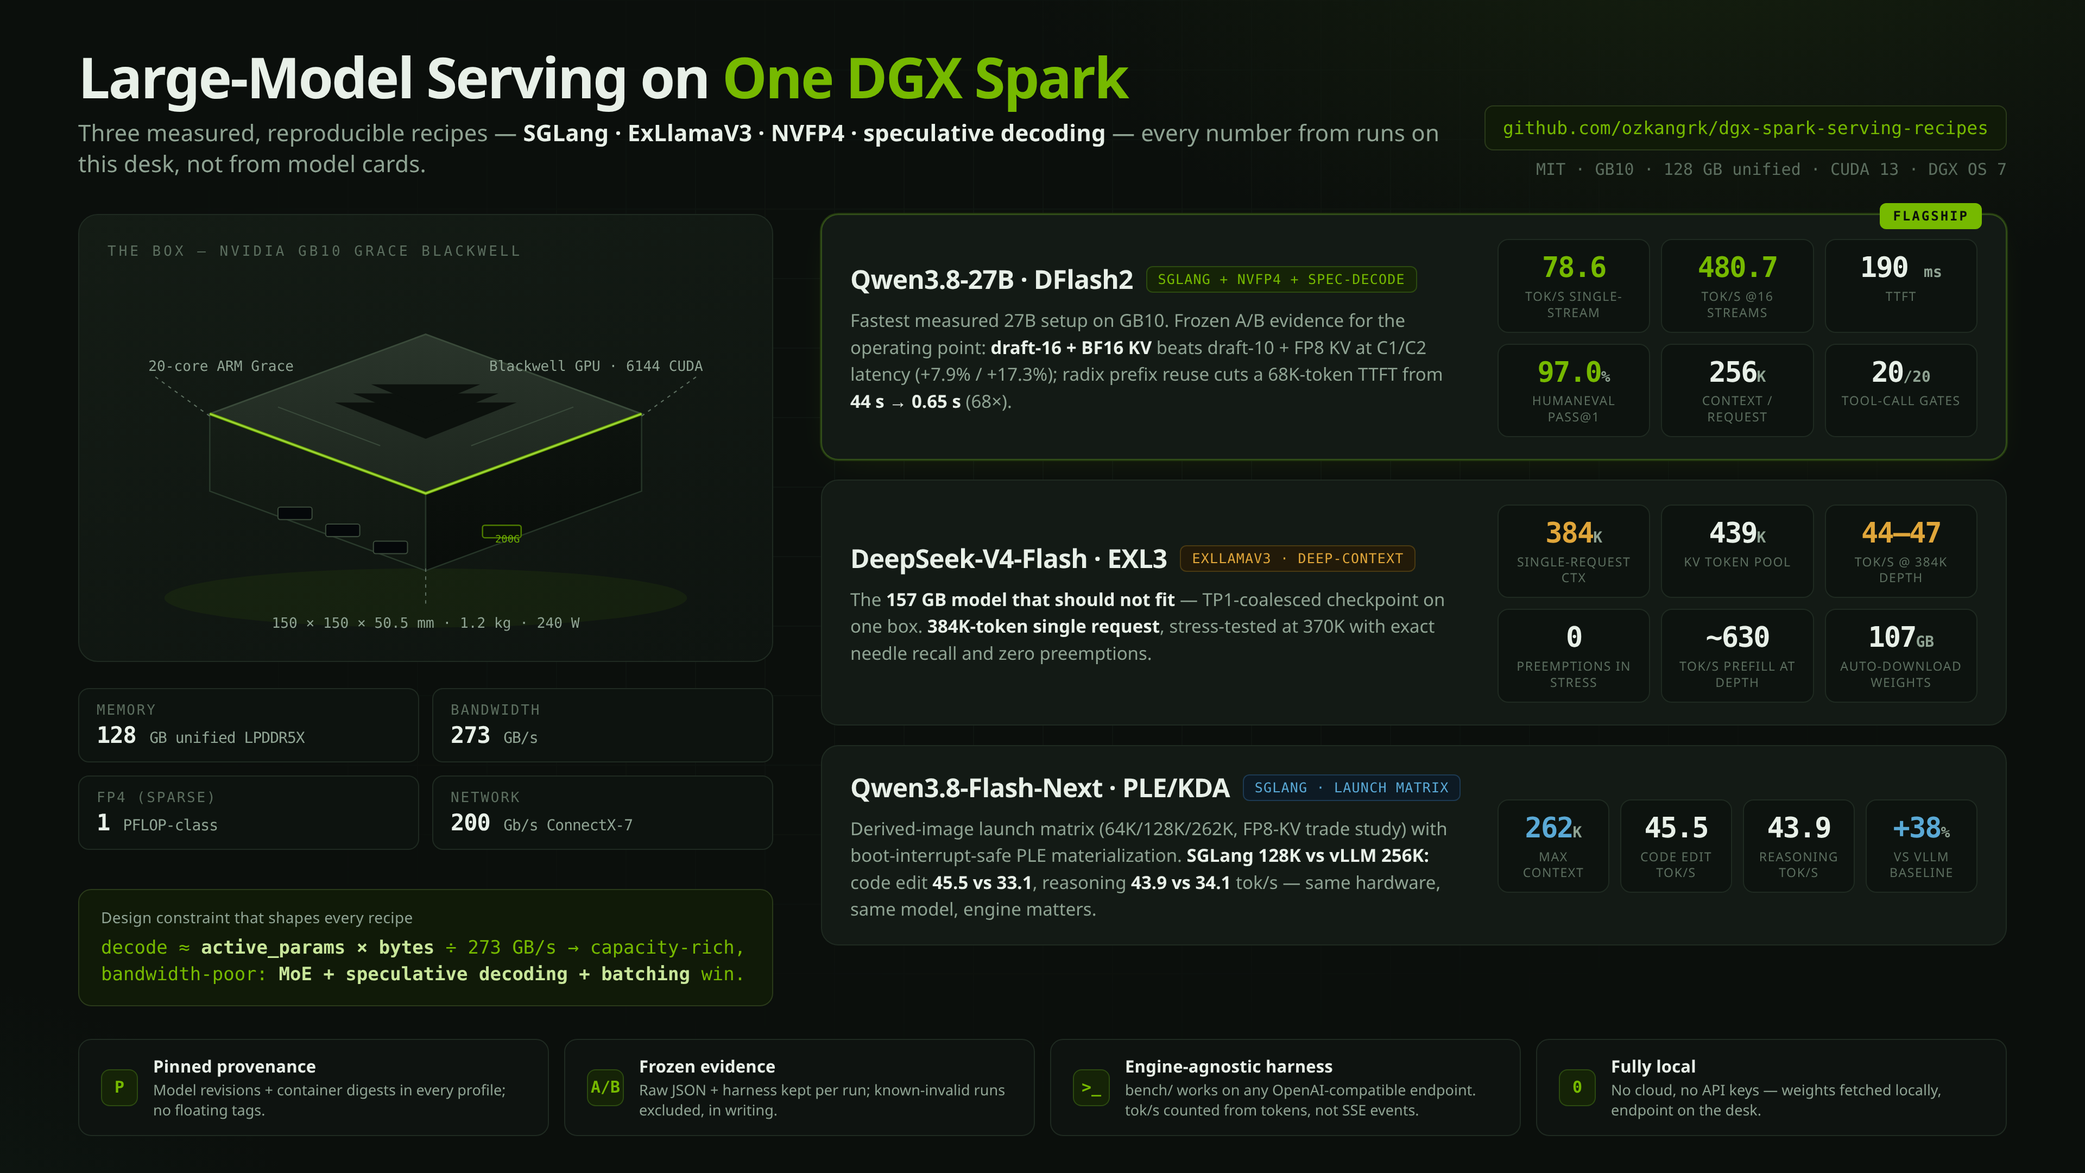
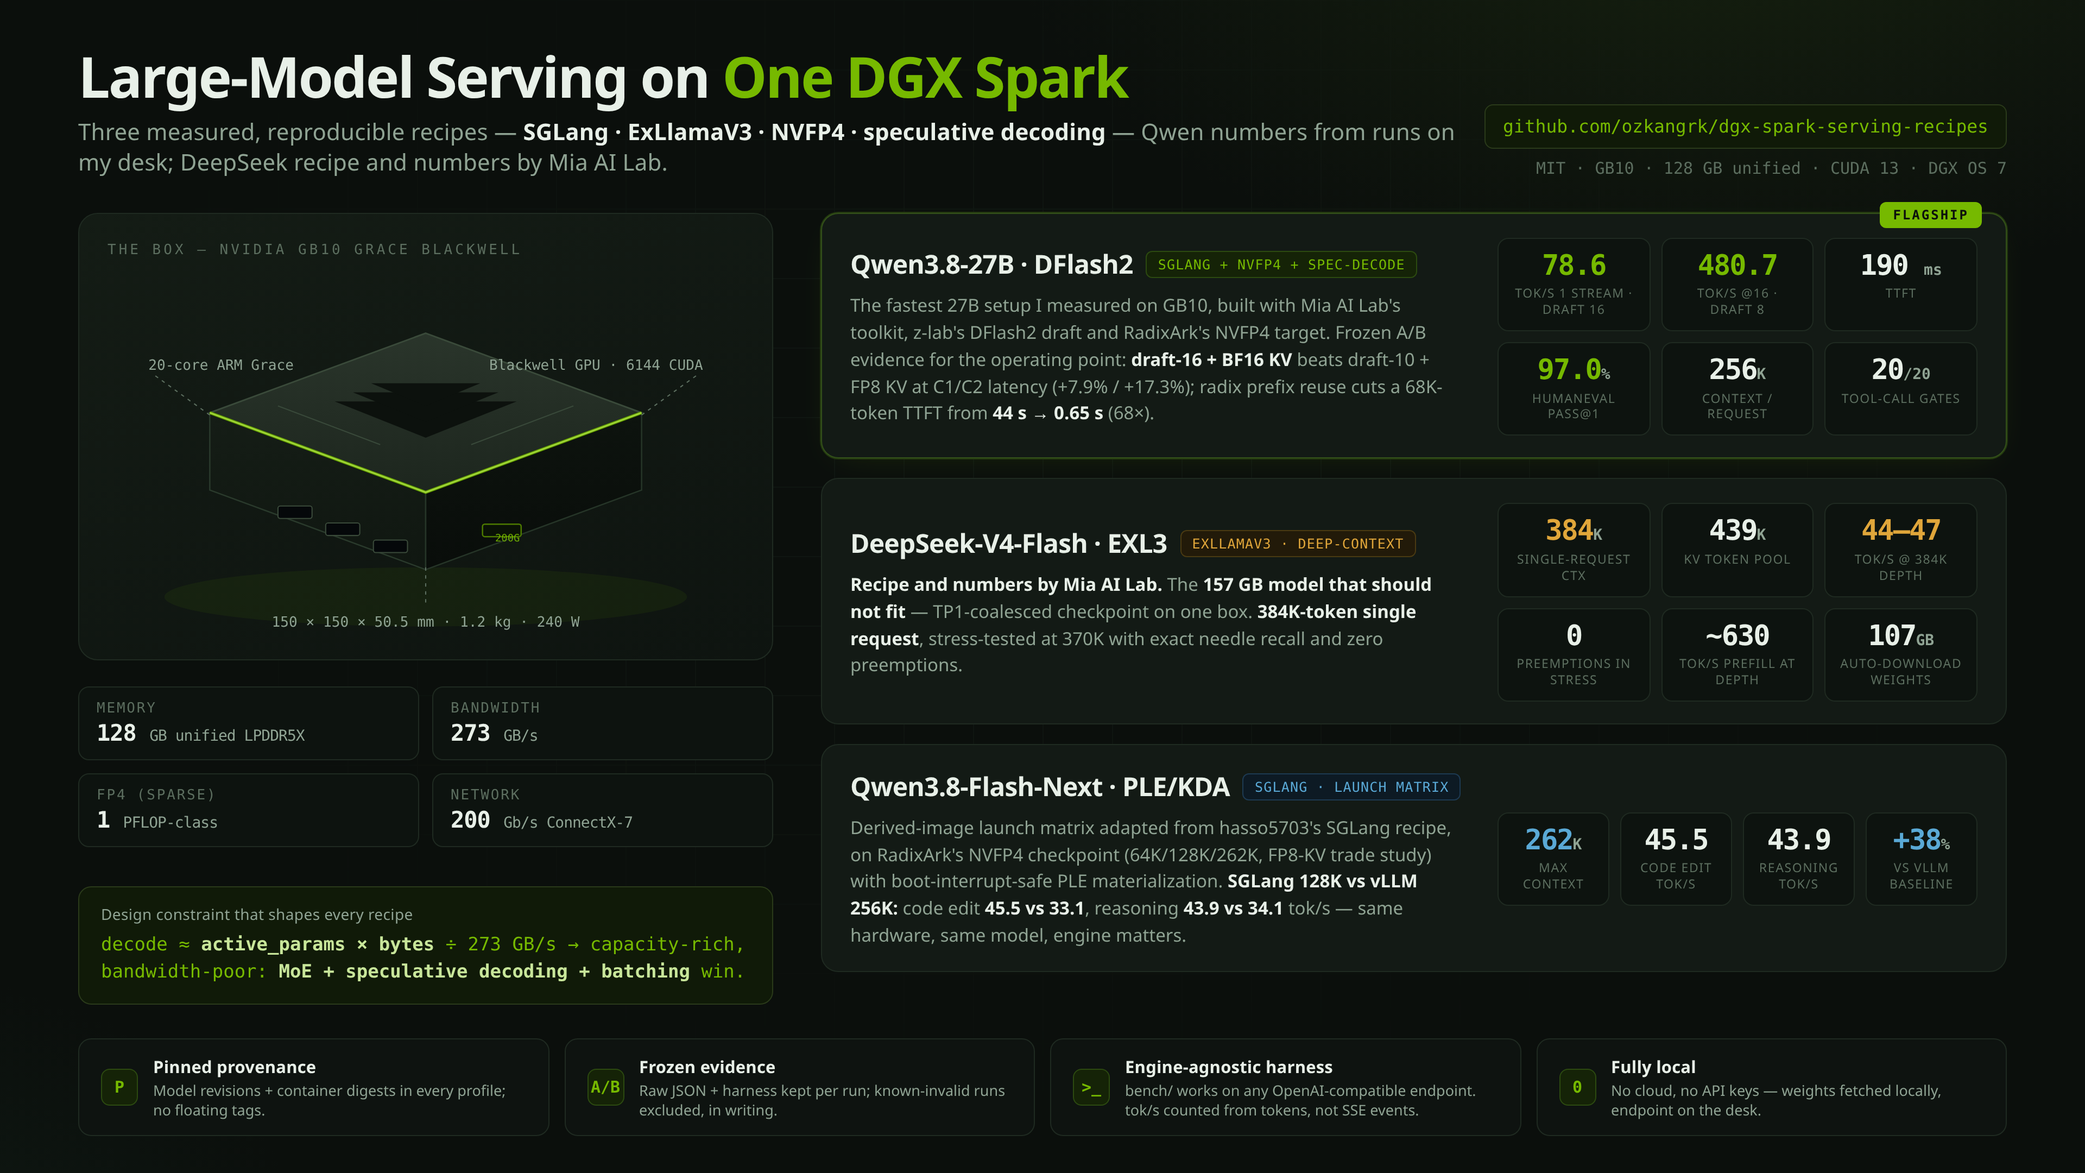
Fix attribution: credit Mia AI Lab, hasso5703, z-lab, RadixArk; add Credits
The README called every profile first-party and the one-pager said every
number came from runs on this desk. The DeepSeek-V4-Flash EXL3 profile and
its numbers are Mia AI Lab's; the Qwen3.8-27B measurements are mine but were
made with Mia AI Lab's toolkit, z-lab's DFlash2 draft and RadixArk's NVFP4
target; the Flash-Next launch scripts are adapted from hasso5703's recipe.
Adds a Credits section, per-profile provenance, labels the nvfp4 guide as
third-party desk research, says which draft width each headline number uses,
replaces unverifiable superlatives and fixes links to files not in this repo.
One-pager HTML and PNG regenerated.

diff --git a/assets/one-pager.html b/assets/one-pager.html
@@ -91,7 +91,7 @@
 <header>
   <div>
     <div class="h-title">Large-Model Serving on <span class="grn">One DGX Spark</span></div>
-    <div class="h-sub">Three measured, reproducible recipes — <b>SGLang · ExLlamaV3 · NVFP4 · speculative decoding</b> — every number from runs on this desk, not from model cards.</div>
+    <div class="h-sub">Three measured, reproducible recipes — <b>SGLang · ExLlamaV3 · NVFP4 · speculative decoding</b> — Qwen numbers from runs on my desk; DeepSeek recipe and numbers by Mia AI Lab.</div>
   </div>
   <div class="h-repo">
     <div class="url">github.com/ozkangrk/dgx-spark-serving-recipes</div>
@@ -178,11 +178,11 @@
           <div class="p-name">Qwen3.8-27B · DFlash2</div>
           <div class="p-engine">SGLANG + NVFP4 + SPEC-DECODE</div>
         </div>
-        <div class="p-why">Fastest measured 27B setup on GB10. Frozen A/B evidence for the operating point: <b>draft-16 + BF16 KV</b> beats draft-10 + FP8 KV at C1/C2 latency (+7.9% / +17.3%); radix prefix reuse cuts a 68K-token TTFT from <b>44 s → 0.65 s</b> (68×).</div>
+        <div class="p-why">The fastest 27B setup I measured on GB10, built with Mia AI Lab's toolkit, z-lab's DFlash2 draft and RadixArk's NVFP4 target. Frozen A/B evidence for the operating point: <b>draft-16 + BF16 KV</b> beats draft-10 + FP8 KV at C1/C2 latency (+7.9% / +17.3%); radix prefix reuse cuts a 68K-token TTFT from <b>44 s → 0.65 s</b> (68×).</div>
       </div>
       <div class="metrics">
-        <div class="m"><div class="n grn">78.6</div><div class="l">tok/s single-stream</div></div>
-        <div class="m"><div class="n grn">480.7</div><div class="l">tok/s @16 streams</div></div>
+        <div class="m"><div class="n grn">78.6</div><div class="l">tok/s 1 stream · draft 16</div></div>
+        <div class="m"><div class="n grn">480.7</div><div class="l">tok/s @16 · draft 8</div></div>
         <div class="m"><div class="n">190 <span class="u">ms</span></div><div class="l">TTFT</div></div>
         <div class="m"><div class="n grn">97.0<span class="u">%</span></div><div class="l">HumanEval pass@1</div></div>
         <div class="m"><div class="n">256<span class="u">K</span></div><div class="l">context / request</div></div>
@@ -196,7 +196,7 @@
           <div class="p-name">DeepSeek-V4-Flash · EXL3</div>
           <div class="p-engine amber">EXLLAMAV3 · DEEP-CONTEXT</div>
         </div>
-        <div class="p-why">The <b>157 GB model that should not fit</b> — TP1-coalesced checkpoint on one box. <b>384K-token single request</b>, stress-tested at 370K with exact needle recall and zero preemptions.</div>
+        <div class="p-why"><b>Recipe and numbers by Mia AI Lab.</b> The <b>157 GB model that should not fit</b> — TP1-coalesced checkpoint on one box. <b>384K-token single request</b>, stress-tested at 370K with exact needle recall and zero preemptions.</div>
       </div>
       <div class="metrics">
         <div class="m"><div class="n am">384<span class="u">K</span></div><div class="l">single-request ctx</div></div>
@@ -214,7 +214,7 @@
           <div class="p-name">Qwen3.8-Flash-Next · PLE/KDA</div>
           <div class="p-engine blue">SGLANG · LAUNCH MATRIX</div>
         </div>
-        <div class="p-why">Derived-image launch matrix (64K/128K/262K, FP8-KV trade study) with boot-interrupt-safe PLE materialization. <b>SGLang 128K vs vLLM 256K:</b> code edit <b>45.5 vs 33.1</b>, reasoning <b>43.9 vs 34.1</b> tok/s — same hardware, same model, engine matters.</div>
+        <div class="p-why">Derived-image launch matrix adapted from hasso5703's SGLang recipe, on RadixArk's NVFP4 checkpoint (64K/128K/262K, FP8-KV trade study) with boot-interrupt-safe PLE materialization. <b>SGLang 128K vs vLLM 256K:</b> code edit <b>45.5 vs 33.1</b>, reasoning <b>43.9 vs 34.1</b> tok/s — same hardware, same model, engine matters.</div>
       </div>
       <div class="metrics c4">
         <div class="m"><div class="n bl">262<span class="u">K</span></div><div class="l">max context</div></div>

diff --git a/README.md b/README.md
@@ -6,9 +6,10 @@ and notes on where two-node clusters become necessary.
 
 Every profile under [`profiles/`](profiles/) is a **working deployment**:
 launch scripts, health/wait gates, quality gates, and the benchmark data
-that justifies the chosen operating point. Numbers are first-party
-measurements on the hardware listed in each profile; nothing is quoted
-from tweets or model cards without an independent local reproduction.
+that justifies the chosen operating point. Not every profile is my own
+work and not every number is my measurement: see [Provenance](#provenance)
+and [Credits](#credits) for who built and measured what. Figures from
+tweets, forums or model cards are labelled as third-party where they appear.
 
 ## Hardware reality (why these recipes look the way they do)
 
@@ -24,17 +25,19 @@ serving are compute-bound and scale well. Consequences:
 - Batch amortizes the bandwidth tax: the same engine that gives 20 tok/s
   at batch 1 can serve hundreds of tok/s aggregate at batch 16+.
 
-See [`docs/nvfp4-serving-guide.md`](docs/nvfp4-serving-guide.md) for the
-full per-model decision table (which model fits one Spark, expected
-decode rates, quantization notes).
+See [`docs/nvfp4-serving-guide.md`](docs/nvfp4-serving-guide.md) for a
+per-model decision table (which model fits one Spark, expected decode
+rates, quantization notes). It is desk research in Turkish, compiled from
+model cards and community reports: its figures are third-party, not
+measurements from this repo.
 
 ## Profiles
 
 | Profile | Engine | Quant | Context | Why it exists |
 |---|---|---|---|---|
-| [`qwen3.8-27b-dflash2`](profiles/qwen3.8-27b-dflash2/) | SGLang + DFlash2 spec-decode | NVFP4 target + BF16 draft | 256K | Flagship: fastest measured Qwen3.8-27B setup on GB10 (78.6 tok/s single-stream, 480.7 tok/s @16 streams, HumanEval 97.0%). Includes frozen A/B evidence for draft-width/KV-dtype operating points. |
-| [`deepseek-v4-flash-exl3`](profiles/deepseek-v4-flash-exl3/) | ExLlamaV3 (EXL3) | NVFP4 KV records | 384K single request | Deep-context: 439K-token pool on ONE Spark, auto-download launcher, TP1 coalesced checkpoint. The 157 GB model that does not fit one box, made to fit. |
-| [`qwen3.8-flash-next`](profiles/qwen3.8-flash-next/) | SGLang (derived image) | NVFP4 | 64K/128K/256K variants | Launch matrix for PLE/KDA attention variants incl. FP8-KV trade study; boot-interrupt-safe PLE materialization. |
+| [`qwen3.8-27b-dflash2`](profiles/qwen3.8-27b-dflash2/) | SGLang + DFlash2 spec-decode | NVFP4 target + BF16 draft | 256K | Flagship: the fastest Qwen3.8-27B setup I measured on GB10 (78.6 tok/s single-stream at draft 16, 480.7 tok/s @16 streams at draft 8, HumanEval 97.0%). Includes frozen A/B evidence for draft-width/KV-dtype operating points. My measurements, made with Mia AI Lab's toolkit, z-lab's DFlash2 draft and RadixArk's NVFP4 target. |
+| [`deepseek-v4-flash-exl3`](profiles/deepseek-v4-flash-exl3/) | ExLlamaV3 (EXL3) | NVFP4 KV records | 384K single request | **By Mia AI Lab** (recipe and numbers are theirs; see its README). Deep-context: 439K-token pool on ONE Spark, auto-download launcher, TP1 coalesced checkpoint. The 157 GB model that does not fit one box, made to fit. |
+| [`qwen3.8-flash-next`](profiles/qwen3.8-flash-next/) | SGLang (derived image) | NVFP4 | 64K/128K/256K variants | Launch matrix for PLE/KDA attention variants incl. FP8-KV trade study; boot-interrupt-safe PLE materialization. Adapted from hasso5703's SGLang recipe; serves RadixArk's NVFP4 checkpoint. |
 
 ## Shared benchmark harness
 
@@ -57,9 +60,24 @@ unique per stream or the radix cache measures itself; assert
 
 ## Provenance
 
-- All figures in `profiles/*/bench-results` and `profiles/*/evidence`
-  are first-party runs on DGX Spark hardware by the repo author, with
-  pinned model revisions and container digests recorded in each profile.
+- **Qwen3.8-27B** (`profiles/qwen3.8-27b-dflash2/`, `docs/RESULTS.md`,
+  `docs/PROFILE-qwen3.8-27b-dflash2.md`): my own runs on one DGX Spark,
+  with pinned model revisions and container digests recorded in the
+  profile and in [`docs/BUILD-MANIFEST.md`](docs/BUILD-MANIFEST.md). The
+  numbers in `docs/RESULTS.md` were produced with Mia AI Lab's toolkit,
+  z-lab's DFlash2 draft and RadixArk's NVFP4 target; some files in the
+  profile's `bench-results/` come from an earlier deployment built on
+  r0b0tlab's bundle (see [Credits](#credits)).
+- **DeepSeek-V4-Flash** (`profiles/deepseek-v4-flash-exl3/`): Mia AI
+  Lab's recipe, included with its own README. Its measured results are
+  Mia AI Lab's, not mine.
+- **Qwen3.8-Flash-Next** (`profiles/qwen3.8-flash-next/`): launch scripts
+  adapted from hasso5703's SGLang recipe (`hasso5703/dgx-spark-qwen38` at
+  `e8d6c6cc`, the `source-commit` label in `launch.sh`), serving RadixArk's
+  NVFP4 checkpoint (the `model-revision` label). The Flash-Next
+  figures on the one-pager are my measurements.
+- [`docs/REPRODUCTION.md`](docs/REPRODUCTION.md) reports a reproduction of
+  the Qwen3.8-27B numbers on a second DGX Spark.
 - Frozen A/B evidence (`profiles/qwen3.8-27b-dflash2/evidence/`) keeps
   raw JSON plus the harness scripts that produced it; known-invalid runs
   are excluded and the exclusion is documented in its `REPORT.md`.
@@ -75,6 +93,30 @@ unique per stream or the radix cache measures itself; assert
   repo; launchers fetch or reference them locally)
 - No cloud account, no API keys: everything runs locally.
 
+## Credits
+
+This repo builds on other people's work:
+
+- **Mia AI Lab** ([@MiaAI_lab](https://x.com/MiaAI_lab)): the whole
+  DeepSeek-V4-Flash EXL3 profile (recipe, launcher, image patches and its
+  measured results; its README lists its own credits), and the
+  [Qwen3.8-27B-SGLang-DGX-Spark](https://github.com/MiaAI-Lab/Qwen3.8-27B-SGLang-DGX-Spark)
+  toolkit at commit `c90d8c34` (`start-dflash.sh`, SGLang overlay, NVFP4
+  head patch), with which my Qwen3.8-27B numbers were produced.
+- **z-lab**: the DFlash2 draft model `z-lab/Qwen3.8-27B-DFlash2`.
+- **RadixArk**: the NVFP4 checkpoints `RadixArk/Qwen3.8-27B-NVFP4` (the
+  Qwen3.8-27B target) and the Qwen3.8-Flash-Next checkpoint served by
+  `profiles/qwen3.8-flash-next/`.
+- **LMSYS / SGLang**: the serving engine and the official DFlash2 images.
+- **hasso5703**: the SGLang Qwen3.8 recipe the Flash-Next launch matrix is
+  adapted from, and a reference figure in `docs/RESULTS.md`.
+- **r0b0tlab**: the SGLang bundle and `r0b0tlab/Qwen3.8-27B-NVFP4-MTP-sm121`
+  target behind the earlier deployment documented in
+  `profiles/qwen3.8-27b-dflash2/docs/`.
+- **SparkStation** ([kshetrajna12/sparkstation](https://github.com/kshetrajna12/sparkstation)):
+  the orchestration layer in the Qwen3.8-27B write-up.
+
 ## License
 
-MIT — see [LICENSE](LICENSE).
+MIT — see [LICENSE](LICENSE). Third-party material in this repo (see
+[Credits](#credits)) stays under its authors' terms.

diff --git a/docs/PROFILE-qwen3.8-27b-dflash2.md b/docs/PROFILE-qwen3.8-27b-dflash2.md
@@ -15,10 +15,19 @@ see step 6.
 **NVFP4 beats FP8, and SGLang beats vLLM, on this hardware.** The widely-shared
 "FP8 on vLLM at ~32 tok/s" recipe is roughly half this speed.
 
-Reproduce with [`bench/`](bench/). Full data in
-[`results/RESULTS.md`](results/RESULTS.md). The exact
+The numbers are my measurements. They were produced with Mia AI Lab's
+[Qwen3.8-27B-SGLang-DGX-Spark](https://github.com/MiaAI-Lab/Qwen3.8-27B-SGLang-DGX-Spark)
+toolkit (`start-dflash.sh`, SGLang overlay, NVFP4 head patch), z-lab's DFlash2
+draft and RadixArk's NVFP4 target; pins are in the table below.
+
+Reproduce with [`bench/`](../bench/). Full data in
+[`RESULTS.md`](RESULTS.md). The exact
 build inputs behind those numbers are in
-[`results/BUILD-MANIFEST.md`](results/BUILD-MANIFEST.md).
+[`BUILD-MANIFEST.md`](BUILD-MANIFEST.md).
+
+The helper scripts (`scripts/`) and patch notes (`patches/`) that accompanied
+the original write-up are not part of this repository; the steps that used
+them say so.
 
 ## Ingredients
 
@@ -38,7 +47,7 @@ kernel 6.17-nvidia, driver 580.173.02 / CUDA 13.0, Docker 29.2.1, 128 GB unified
 ## 1. Verify GPU passthrough
 
 ```bash
-./scripts/00-verify-gpu.sh
+./scripts/00-verify-gpu.sh          # helper not included in this repo
 ```
 
 DGX OS ships CDI, not a registered Docker runtime — `docker info` showing only
@@ -47,8 +56,11 @@ DGX OS ships CDI, not a registered Docker runtime — `docker info` showing only
 ## 2. Pull the image, fetch the weights
 
 ```bash
-./scripts/01-build-and-fetch.sh     # pulls the official image + weights
+./scripts/01-build-and-fetch.sh     # pulls the official image + weights (helper not included in this repo)
 ```
+
+Without the helper, pull the image and download the weights at the revisions
+in the Ingredients table and [`BUILD-MANIFEST.md`](BUILD-MANIFEST.md).
 
 LMSYS published official DFlash2 images on 2026-08-22: `dev-cu13-qwen38-27b-dflash2`,
 `dev-qwen38-27b-dflash2`, `dev-cu12-qwen38-27b-dflash2`, arm64 included. Only the
@@ -56,7 +68,8 @@ LMSYS published official DFlash2 images on 2026-08-22: `dev-cu13-qwen38-27b-dfla
 
 ## 3. Run standalone, get a baseline
 
-Get a number before adding orchestration.
+Get a number before adding orchestration. Run this from a checkout of Mia AI
+Lab's toolkit at `c90d8c34`.
 
 ```bash
 cd ~/spark/Qwen3.8-27B-SGLang-DGX-Spark   # required: start.sh uses WORK_DIR="$(pwd)"
@@ -127,7 +140,7 @@ co-limiting** — raising only the obvious one measures nothing.
 pool allows and the 24/32 rows are queueing against it.
 
 A larger pool does raise aggregate — we measured **474.0 tok/s at 32 streams**
-with pool 160, against 362.7 at pool 80. [An independent run](results/REPRODUCTION.md)
+with pool 160, against 362.7 at pool 80. [An independent run](REPRODUCTION.md)
 reports higher still (606.4 at pool 160, 640.9 at pool 240 with cap 48); we did
 not reproduce those magnitudes, see that file for why.
 
@@ -139,14 +152,14 @@ pool 160 as the practical ceiling.
 Leave `--max-total-tokens 1048576` in place: uncapping it grows the KV pool but
 nothing uses the space, and the lost headroom cost 18% at 32 streams.
 
-Costs ~5% single-stream and 11.8 GB of GDN state. Details in
-[`patches/sparkstation-models.yaml.md`](patches/sparkstation-models.yaml.md).
+Costs ~5% single-stream and 11.8 GB of GDN state. (The patch notes for this
+`models.yaml` edit are not included in this repo; the diff above is the change.)
 
 ## 6. Tune draft tokens — the largest single-stream lever
 
 `--speculative-num-draft-tokens` ships at 8. The measured optimum is ~16,
 worth **+28%** single-stream. A second machine measured +41.6%; our 78.6 is
-probably the low end of the spread. See [RESULTS](results/RESULTS.md#draft-tokens).
+probably the low end of the spread. See [RESULTS](RESULTS.md#draft-tokens).
 
 | draft | single | agg @16 | accept_len | accept_rate |
 |---:|---:|---:|---:|---:|
@@ -171,6 +184,12 @@ rejected. `accept_rate` collapses from 0.80 to 0.32.
 ./scripts/run-humaneval.sh          # thinking off, ~5 min
 ./scripts/run-humaneval.sh think    # thinking on,  ~20 min
 ```
+
+That wrapper is not included in this repo. It chained
+[`bench/humaneval/generate.py`](../bench/humaneval/generate.py),
+[`execute.py`](../bench/humaneval/execute.py) (inside a `--network none`
+container) and [`report.py`](../bench/humaneval/report.py); each file's
+docstring gives the command to run it on its own.
 
 164 problems at temperature 0, each executed against its real unit tests in a
 `--network none` container. Real pass@1, not self-judged.
@@ -223,7 +242,7 @@ Each of these cost real time.
   nothing — the console script imports from `.venv/bin`. Copy it across too.
 - **Gateway reports "not healthy" while working.** `_gateway_healthy()`
   hardcodes `Bearer dummy-key`, so a custom `LITELLM_MASTER_KEY` gets HTTP 400.
-  Patch in [`patches/`](patches/).
+  Patch it to send the configured key (the patch is not included in this repo).
 - **Only the FLUX launcher forwards `HF_TOKEN`.** A gated model can't
   authenticate its own download; pre-pull on the host.
 - **Never `docker rm -f` a managed container.** The supervisor's state goes
@@ -242,23 +261,29 @@ Each of these cost real time.
 
 ## Layout
 
+In this repository:
+
 ```
 bench/     common.py · perf.py · longctx.py · humaneval/{generate,execute,report}.py
-scripts/   00-verify-gpu · 01-build-and-fetch · build-manifest · run-humaneval
-patches/   models.yaml edits · gateway-health fix
-results/   RESULTS.md — all measurements
+docs/      RESULTS.md — all measurements
            BUILD-MANIFEST.md — resolved build inputs for those numbers
+           REPRODUCTION.md — the second-machine reproduction
+profiles/qwen3.8-27b-dflash2/   launchers · gates · bench-results · frozen A/B evidence
 ```
 
-Scripts read `GB10_BASE_URL`, `GB10_API_KEY`, `GB10_MODEL` from the environment
-(see [`.env.example`](.env.example)); nothing is baked in.
+The `scripts/` and `patches/` directories of the original write-up are not
+included.
+
+The bench scripts read `GB10_BASE_URL`, `GB10_API_KEY`, `GB10_MODEL` from the
+environment (see the docstring in [`bench/common.py`](../bench/common.py));
+nothing is baked in.
 
 ## Caveats
 
 Throughput figures are code generation at temperature 0 on short prompts.
 Long-context behaves very differently — a ~120K-token prompt costs ~95 s before
 the first token (full prefill curve in
-[`results/RESULTS.md`](results/RESULTS.md)). Single machine; treat the ordering
+[`RESULTS.md`](RESULTS.md)). Single machine; treat the ordering
 of findings as durable and absolute numbers as indicative.
 
-MIT — see [LICENSE](LICENSE).
+MIT — see [LICENSE](../LICENSE).

diff --git a/docs/BUILD-MANIFEST.md b/docs/BUILD-MANIFEST.md
@@ -35,8 +35,8 @@ any amount of re-benchmarking.
 
 ## Which inputs are pinned, and which are not
 
-Pinned by the scripts in this repo: target revision, draft revision, toolkit
-commit.
+Pinned by the original launch scripts (not included in this repo): target
+revision, draft revision, toolkit commit.
 
 Pinned by the toolkit itself: the SGLang commit and the NVFP4 head patch.
 
@@ -46,7 +46,8 @@ build date. If `lmsysorg/sglang:qwen38-27b` is republished, a rebuild produces a
 different image than the one benchmarked here, and nothing in the build will
 warn you.
 
-Regenerate this table with [`scripts/build-manifest.sh`](../scripts/build-manifest.sh).
+The script that generated this table (`scripts/build-manifest.sh`) is not
+included in this repo.
 
 ## Image note
 
